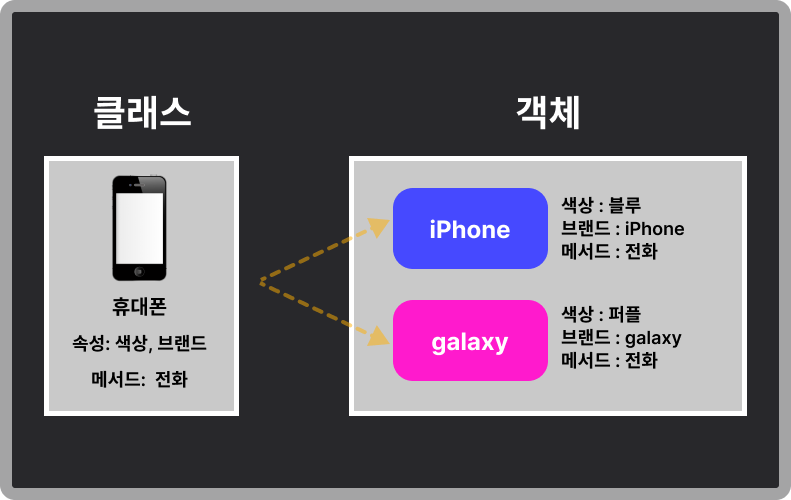
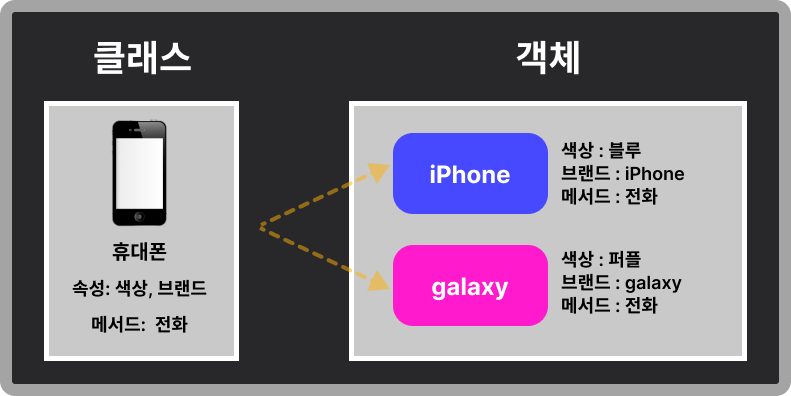
[modify] typo correction and image correction

diff --git a/_posts/2025-01-06-oop_introduction.md b/_posts/2025-01-06-oop_introduction.md
@@ -20,7 +20,8 @@ tags: [Java, OOP]
 
 #### 1. 객체(Object) 
 
-> 컴퓨터 과학에서 객체는 클래스에서 정의한 것을 토대로 메모리에 할당된 것으로 프로그램에서 사용되는 데이터 또는 식별자에 의해 참조되는 공간을 의미하며, 변수, 자료 구조, 함수 또는 메소드가 될 수 있다. - [위키백과](https://ko.wikipedia.org/wiki/%EA%B0%9D%EC%B2%B4_(%EC%BB%B4%ED%93%A8%ED%84%B0_%EA%B3%BC%ED%95%99))
+> 컴퓨터 과학에서 객체는 클래스에서 정의한 것을 토대로 메모리에 할당된 것으로 프로그램에서 사용되는 데이터 또는 식별자에 의해 참조되는 공간을 의미하며, 변수, 자료 구조, 함수 또는 메소드가 될 수 있다.   
+> [- 위키백과](https://ko.wikipedia.org/wiki/%EA%B0%9D%EC%B2%B4_(%EC%BB%B4%ED%93%A8%ED%84%B0_%EA%B3%BC%ED%95%99))
 
 객체지향 프로그래밍에서 객체는 `클래스의 인스턴스`이다. 클래스는 간단히 말해 객체를 만들기 위한 설계도라고 생각하시면 됩니다. 즉, 클래스를 보고 만든 인스턴스를 객체라고 합니다. 객체는 속성(데이터)과 이를 제어하는 메서드(행위)를 포함하는 소프트웨어입니다. 예를 들어, "휴대폰"라는 객체는 색상, 브랜드, 디자인 등의 속성과 전화, 문자 등의 메서드를 가질 수 있습니다. 
 
@@ -45,14 +46,14 @@ tags: [Java, OOP]
 
 객체 지향 프로그래밍에서는 위 그림과 같은 개념이 있습니다. 이 글에서는 간략히 개념에 대해 설명하겠습니다. 
 
-1. 추상화(Abstraction): 복잡한 시스템에서 필요한 정보만을 표현하기 위해서, 객체의 공통적인 속성과 행위를 하나로 묶는 것을 의미합니다. 
-2. 캡슐화(Encapsulation): 객체의 속성(변수)과 메서드를 하나로 묶고, 실제 구현 내용을 외부에 감추는 것입니다.  
+1. **추상화(Abstraction)**: 복잡한 시스템에서 필요한 정보만을 표현하기 위해서, 객체의 공통적인 속성과 행위를 하나로 묶는 것을 의미합니다. 
+2. **캡슐화(Encapsulation)**: 객체의 속성(변수)과 메서드를 하나로 묶고, 실제 구현 내용을 외부에 감추는 것입니다.  
     - 캡슐화는 객체의 응집도와 독립성을 높여줍니다.
-3. 상속(Inheritance): 기존의 클래스에 기능을 추가하거나 재정의하여 새로운 클래스를 정의하는 것을 의미합니다.
+3. **상속(Inheritance)**: 기존의 클래스에 기능을 추가하거나 재정의하여 새로운 클래스를 정의하는 것을 의미합니다.
     - 상속은 코드의 중복을 줄이고 재사용성을 늘릴 수 있습니다.
-4. 다형성(Polymorphism): 하나의 객체가 여러 가지 형태를 가질 수 있는 특성을 말합니다. Overriding과 Overloading을 사용하여 다형성을 확보할 수 있습니다. 
-    - Overriding : 상속 관계에서 상위 클래스의 메서드를 자식 클래스에서 재정의하는 것을 말합니다. 
-    - Overloading : 클래스 내에 같은 이름을 갖는 메서드가 있을 때, 같은 이름의 메서드를 여러 개 정의하는 것을 말합니다. 
+4. **다형성(Polymorphism)**: 하나의 객체가 여러 가지 형태를 가질 수 있는 특성을 말합니다. `Overriding`과 `Overloading`을 사용하여 다형성을 확보할 수 있습니다. 
+    - **Overriding** : 상속 관계에서 상위 클래스의 메서드를 자식 클래스에서 재정의하는 것을 말합니다. 
+    - **Overloading** : 클래스 내에 같은 이름을 갖는 메서드가 있을 때, 같은 이름의 메서드를 여러 개 정의하는 것을 말합니다. 
 
 ## Java에서 OOP의 장단점
 
@@ -60,18 +61,18 @@ Java에서 OOP를 사용하는 장점은 다음과 같습니다.
 
 > #### OOP의 장점.
 
-- 코드 재사용성 : 상속을 통해 기존 코드를 재사용하고 확장할 수 있어 개발 생산성이 향상됩니다.
-- 유지보수 용이성 : 캡슐화를 통해 객체 내부 구현을 숨기므로, 코드 수정 시 다른 부분에 미치는 영향이 적어 유지보수가 쉽습니다. 
-- 모듈화 : 복잡한 시스템을 독립적인 객체들로 나누어 관리할 수 있어 대규모 개발에 적합합니다.
-- 유연성과 확장성 : 다형성을 통해 같은 인터페이스로 다양한 객체를 다룰 수 있어 프로그램의 유연성과 확장성이 향상됩니다. 
+- **코드 재사용성** : 상속을 통해 기존 코드를 재사용하고 확장할 수 있어 개발 생산성이 향상됩니다.
+- **유지보수 용이성** : 캡슐화를 통해 객체 내부 구현을 숨기므로, 코드 수정 시 다른 부분에 미치는 영향이 적어 유지보수가 쉽습니다. 
+- **모듈화** : 복잡한 시스템을 독립적인 객체들로 나누어 관리할 수 있어 대규모 개발에 적합합니다.
+- **유연성과 확장성** : 다형성을 통해 같은 인터페이스로 다양한 객체를 다룰 수 있어 프로그램의 유연성과 확장성이 향상됩니다. 
 - 현실 세계 모델링 : 실제 세계의 개념을 객체로 표현하기 쉬워 직관적인 설계가 가능합니다. 
 
 > #### OOP의 단점.
 
 - 개발 속도 : 초기 설계 단계에서 많은 시간과 노력이 필요합니다. 
-- 실행 속도 : 객체 생성과 메서드 호출에 따른 오버헤드로 인해 절차적 프로그래밍에 비해 실행 속도가 느릴 수 있습니다. 
-- 메모리 사용 : 객체 생성과 관리에 더 많은 메모리를 사용할 수 있습니다.
-- 과도한 추상화 : 잘못된 추상화나 과도한 상속 계층은 코드를 복잡하게 만들 수 있습니다. 
+- **실행 속도** : 객체 생성과 메서드 호출에 따른 오버헤드로 인해 절차적 프로그래밍에 비해 실행 속도가 느릴 수 있습니다. 
+- **메모리 사용** : 객체 생성과 관리에 더 많은 메모리를 사용할 수 있습니다.
+- **과도한 추상화** : 잘못된 추상화나 과도한 상속 계층은 코드를 복잡하게 만들 수 있습니다. 
 
 ## 마치며 
 
